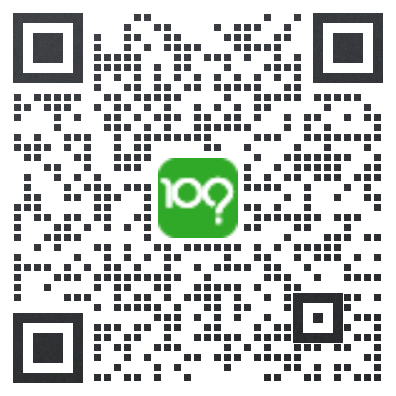
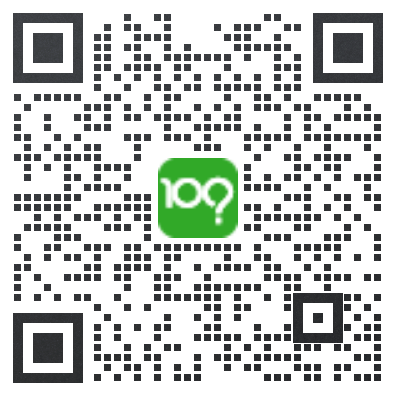
update

diff --git a/docs/contact_us/index.md b/docs/contact_us/index.md
@@ -16,14 +16,10 @@
 
 ![wechat_applet](index_img/wechat_applet.jpg)
 
-【7】打开手机微信扫一扫，下载手机APP学习更方便！
-
-![app](index_img/app.png)
-
  
-## 添加老师交流
+# 加入学习圈子交流学习
 
-打开手机微信扫一扫添加老师微信，欢迎一起交流！ :) 
+打开手机微信扫一扫加入学习社群，欢迎一起交流！ :) 
 
-![WeChat](index_img/wechat.png)
+![equanzi](index_img/equanzi.jpg)
 
